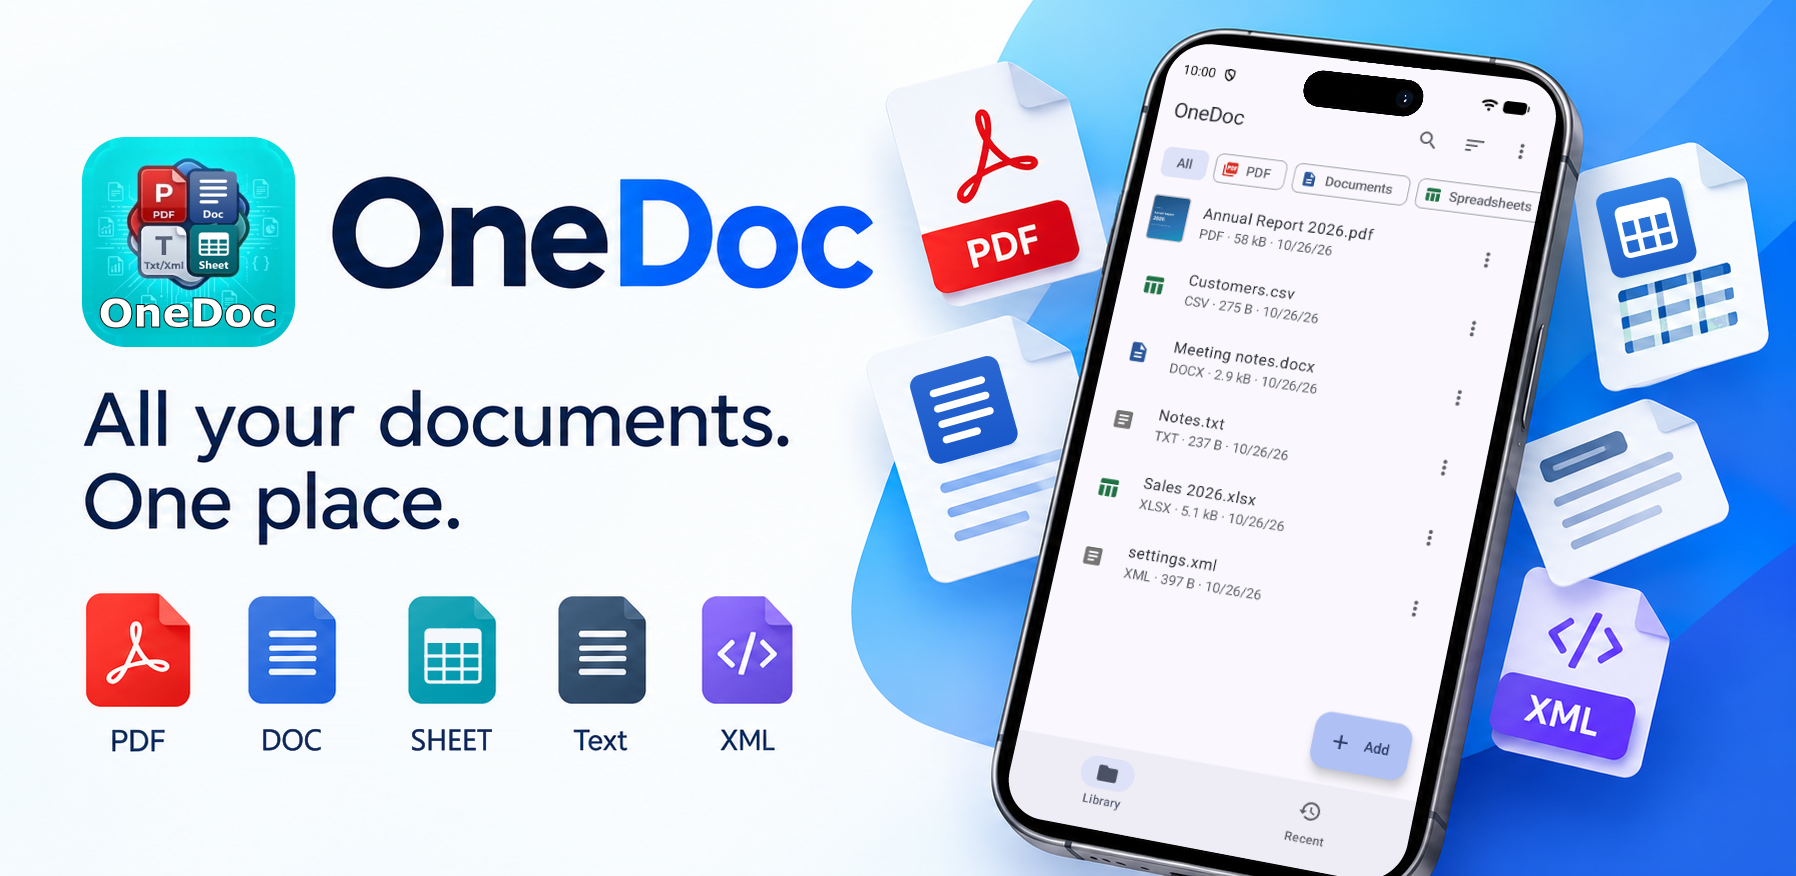
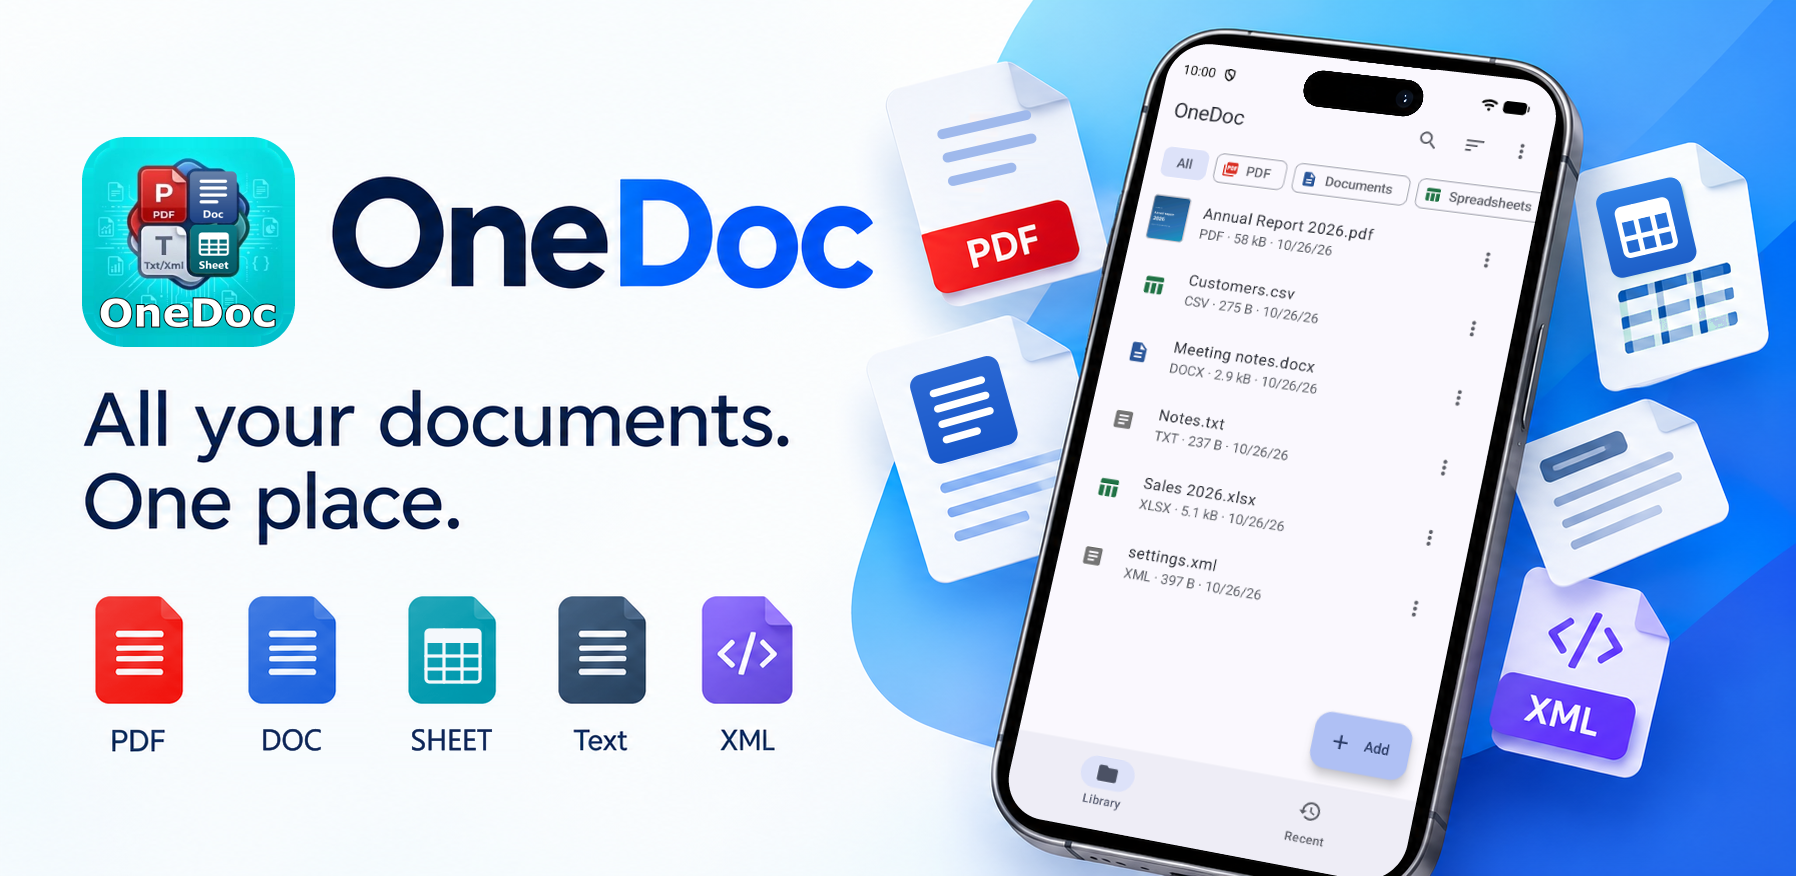
Обложка Play: значки PDF без «вихря» Adobe Acrobat
- Значок PDF внизу — красный документ с полосками текста, как DOC,
  SHEET и Text; на летающей карточке «вихрь» заменён строками текста,
  плашка «PDF» осталась.
- EditBanner.java: шаги pdfIcon и pdfCard; исправлена склеившаяся
  строка команды запуска в шапке.

Changed region(s): [[0.0312, 0.6781, 0.1247, 0.8014], [0.5301, 0.1233, 0.5924, 0.2466], [0.0624, 0.8014, 0.0935, 0.8322]]

diff --git a/art/EditBanner.java b/art/EditBanner.java
@@ -24,7 +24,9 @@ import java.util.function.IntPredicate;
  * 1) значки «Word» и «Excel» внизу слева → нейтральные «DOC» (документ с полосками) и «SHEET» (документ с сеткой);
  * 2) на летающих карточках квадраты с «W» и «X» → квадраты с полосками текста и с сеткой, зелёная сетка → синяя;
  * 3) экран телефона → реальный скриншот приложения с перспективой, скруглёнными углами и «островом» камеры поверх;
- * 4) синяя иконка слева от названия → иконка приложения (art/play_icon_512.png) в том же скруглённом квадрате.
+ * 4) синяя иконка слева от названия → иконка приложения (art/play_icon_512.png) в том же скруглённом квадрате;
+ * 5) «вихрь», похожий на логотип Adobe Acrobat, на значке PDF внизу и на летающей карточке → строки текста
+ *    (внизу — красный документ того же семейства, что DOC/SHEET/Text; на карточке плашка «PDF» остаётся).
  *
  * Координаты измерены на art/banner_source.png (1796×876); для другого исходника их нужно измерить заново.
  *
@@ -46,6 +48,8 @@ public class EditBanner {
         BufferedImage original = copy(img);
 
         bottomIcons(original);
+        pdfIcon(original);
+        pdfCard();
         wordCard();
         excelCard();
         phoneScreen(ImageIO.read(new File(a[1])), original);
@@ -273,6 +277,77 @@ public class EditBanner {
             int u = Math.max(0, Math.min(ICON_W - 1, x - ICON_X)), v = Math.max(0, Math.min(ICON_H - 1, y - ICON_Y));
             img.setRGB(x, y, mix(img.getRGB(x, y), small.getRGB(u, v), in / 16.0));
         }
+    }
+
+    // ------------------------------------------------------------ 5. значки PDF
+
+    /** Старый значок PDF внизу (красный документ с «вихрем») вместе с полями; подпись «PDF» ниже не трогается. */
+    static final int PDF_X0 = 80, PDF_Y0 = 588, PDF_X1 = 196, PDF_Y1 = 712;
+
+    static void pdfIcon(BufferedImage original) {
+        int red = avg(original, 92, 690, 100, 698);   // тело документа у нижнего левого угла — без «вихря»
+        Rectangle2D label = darkBox(original, 95, 715, 185, 768);
+        eraseRows(PDF_X0, PDF_Y0, PDF_X1, PDF_Y1);
+        // Копия значка «Text» (документ с полосками), выровненная по центру подписи «PDF».
+        int dx = (int) Math.round(label.getCenterX()) - 602;
+        recolorCopy(original, dx, new Color(red), false);
+        out.printf("значок PDF: цвет %06X, центр %.1f%n", red, label.getCenterX());
+    }
+
+    /**
+     * Карточка PDF: красные штрихи «вихря» над плашкой стираются — каждая строка маски заполняется переходом
+     * между цветами карточки слева и справа, — и рисуются три строки текста цвета строк соседних карточек.
+     */
+    static void pdfCard() {
+        // Верх плашки «PDF»: прямая от (922, 235) до (1067, 202); всё красное выше неё — «вихрь».
+        java.util.function.DoubleUnaryOperator bannerTop = x -> 235 - (x - 922) * 33.0 / 145.0;
+        int x0 = 930, x1 = 1060, y0 = 95, y1 = 225;
+        boolean[][] mask = new boolean[y1 - y0 + 1][x1 - x0 + 1];
+        for (int y = y0; y <= y1; y++) for (int x = x0; x <= x1; x++) {
+            if (isReddish(img.getRGB(x, y)) && y < bannerTop.applyAsDouble(x) - 10) mask[y - y0][x - x0] = true;
+        }
+        // Расширение маски на 3 пикселя — захватывает розовую кайму сглаживания.
+        boolean[][] grown = new boolean[mask.length][mask[0].length];
+        for (int y = 0; y < mask.length; y++) for (int x = 0; x < mask[0].length; x++) {
+            if (!mask[y][x]) continue;
+            for (int j = -3; j <= 3; j++) for (int i = -3; i <= 3; i++) {
+                int yy = y + j, xx = x + i;
+                if (yy >= 0 && xx >= 0 && yy < mask.length && xx < mask[0].length
+                        && y0 + yy < bannerTop.applyAsDouble(x0 + xx) - 8) grown[yy][xx] = true;
+            }
+        }
+        for (int y = 0; y < grown.length; y++) {
+            int x = 0;
+            while (x < grown[0].length) {
+                if (!grown[y][x]) { x++; continue; }
+                int s = x;
+                while (x < grown[0].length && grown[y][x]) x++;
+                int l = img.getRGB(x0 + s - 1, y0 + y), r = img.getRGB(x0 + x, y0 + y);
+                // У самого края плашки соседний пиксель может оказаться красным — тогда берётся другой край
+                // или цвет карточки чуть выше.
+                boolean lr = isReddish(l), rr = isReddish(r);
+                if (lr && rr) { l = r = avg(img, x0 + s, y0 + y - 12, x0 + x - 1, y0 + y - 10); }
+                else if (lr) l = r;
+                else if (rr) r = l;
+                for (int k = s; k < x; k++) img.setRGB(x0 + k, y0 + y, mix(l, r, (k - s + 1.0) / (x - s + 1.0)));
+            }
+        }
+        // Строки текста — с наклоном плашки, цветом строк на карточке документа.
+        int lineColor = 0x9FB9EC;
+        double angle = Math.atan2(-33, 145);
+        Graphics2D g = quality(img.createGraphics());
+        g.translate(990, 150);
+        g.rotate(angle);
+        g.setColor(new Color(lineColor));
+        g.setStroke(new BasicStroke(10f, BasicStroke.CAP_ROUND, BasicStroke.JOIN_ROUND));
+        double[] lens = {86, 86, 60};
+        for (int i = 0; i < 3; i++) g.draw(new Line2D.Double(-43, -26 + i * 24, -43 + lens[i], -26 + i * 24));
+        g.dispose();
+    }
+
+    static boolean isReddish(int c) {
+        int[] p = rgb(c);
+        return p[0] - (p[1] + p[2]) / 2.0 > 8;
     }
 
     // ------------------------------------------------------------ 2. летающие карточки

diff --git a/play/README.md b/play/README.md
@@ -37,4 +37,4 @@
 - **Скриншоты планшета** (7" и 10") — необязательны, но без них приложение хуже показывается на планшетах.
 - Обложка исправлена 26.10.2026 (`art/EditBanner.java`): значки и подписи «Word»/«Excel» заменены на нейтральные «DOC» (документ с полосками) и «SHEET» (документ с сеткой), квадраты с W и X на летающих карточках — на полоски текста и таблицу, зелёная сетка — на синюю; на экране телефона — настоящий скриншот `screenshots/en/01_library.png` вместо выдуманного интерфейса; синяя иконка слева от названия заменена иконкой приложения (`../art/play_icon_512.png`).
 - Иконка приложения (и на обложке, и в Play, и в лаунчере) с 26.10.2026 — нейтральная: плитки «Doc» и «Sheet» вместо «W»/«Word» и «X»/«Excel» (`../art/EditIcon.java`).
-- Остаётся: значки PDF на обложке (красный «вихрь») похожи на логотип Adobe Acrobat. Если модерация придерётся, заменить их тем же способом на нейтральный документ с подписью PDF.
+- 27.10.2026 убран «вихрь», похожий на логотип Adobe Acrobat: значок PDF внизу — красный документ с полосками (как DOC/SHEET/Text), на летающей карточке — строки текста над плашкой «PDF».
